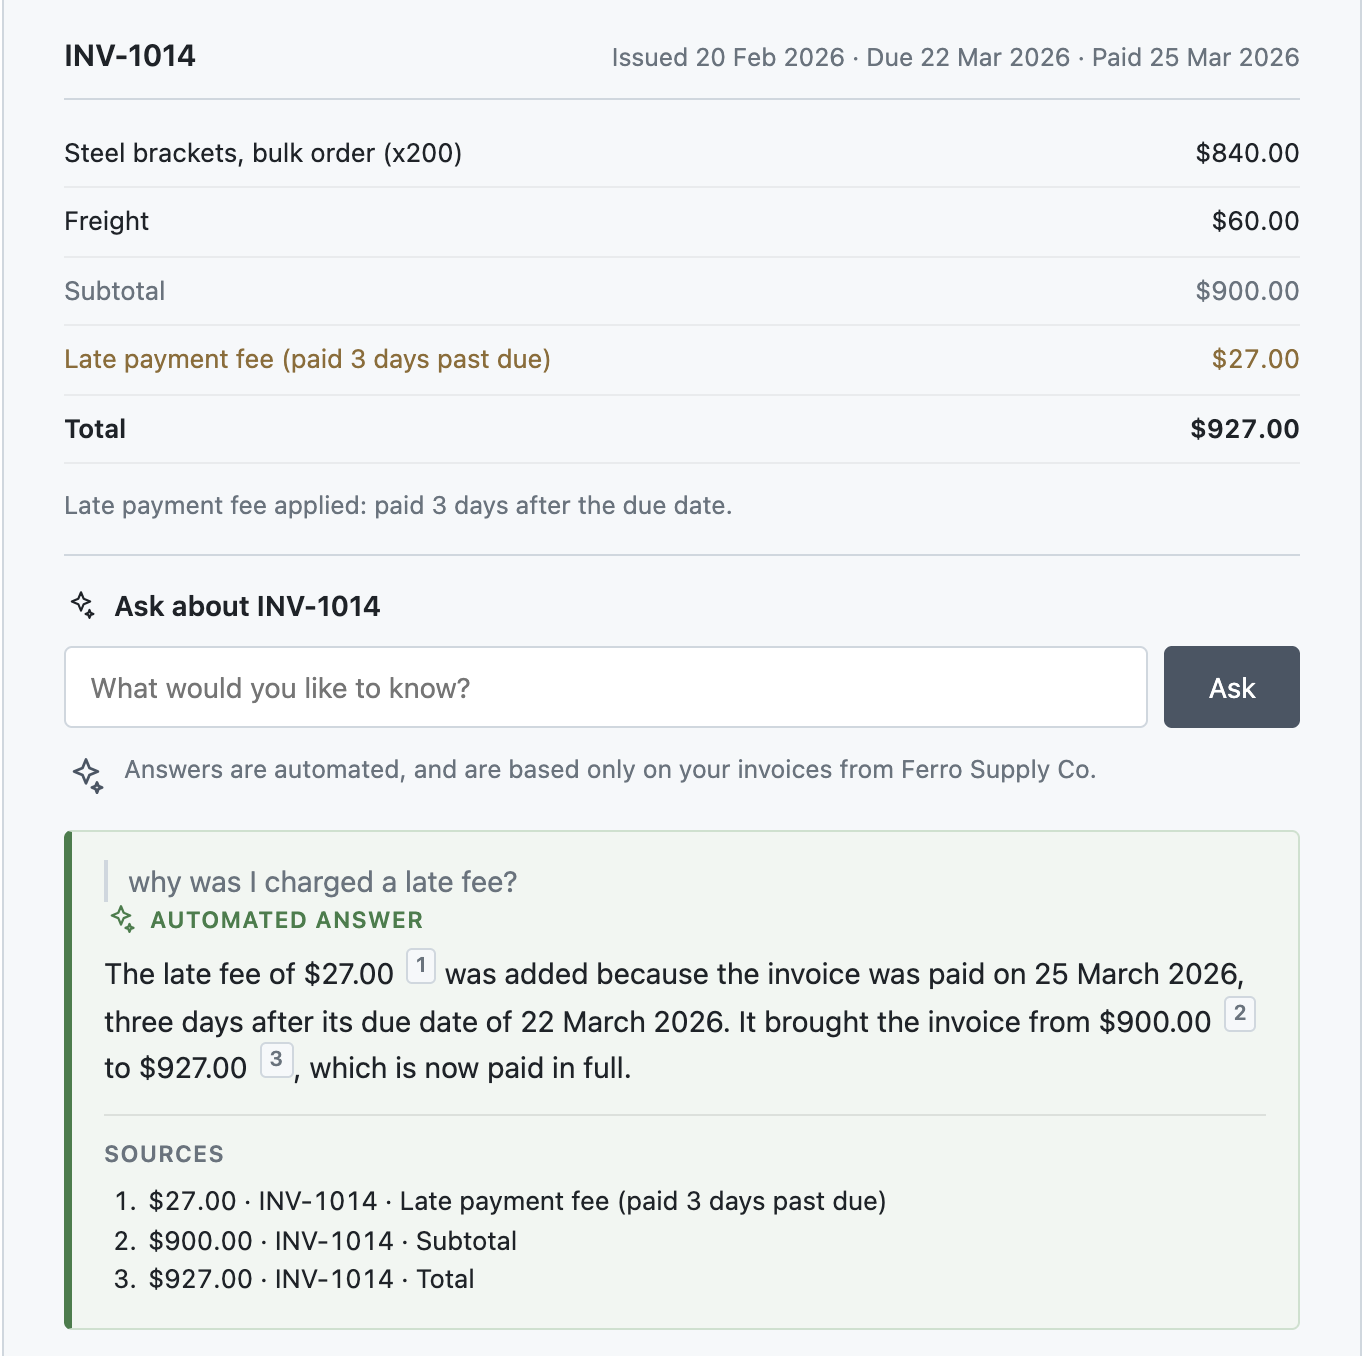
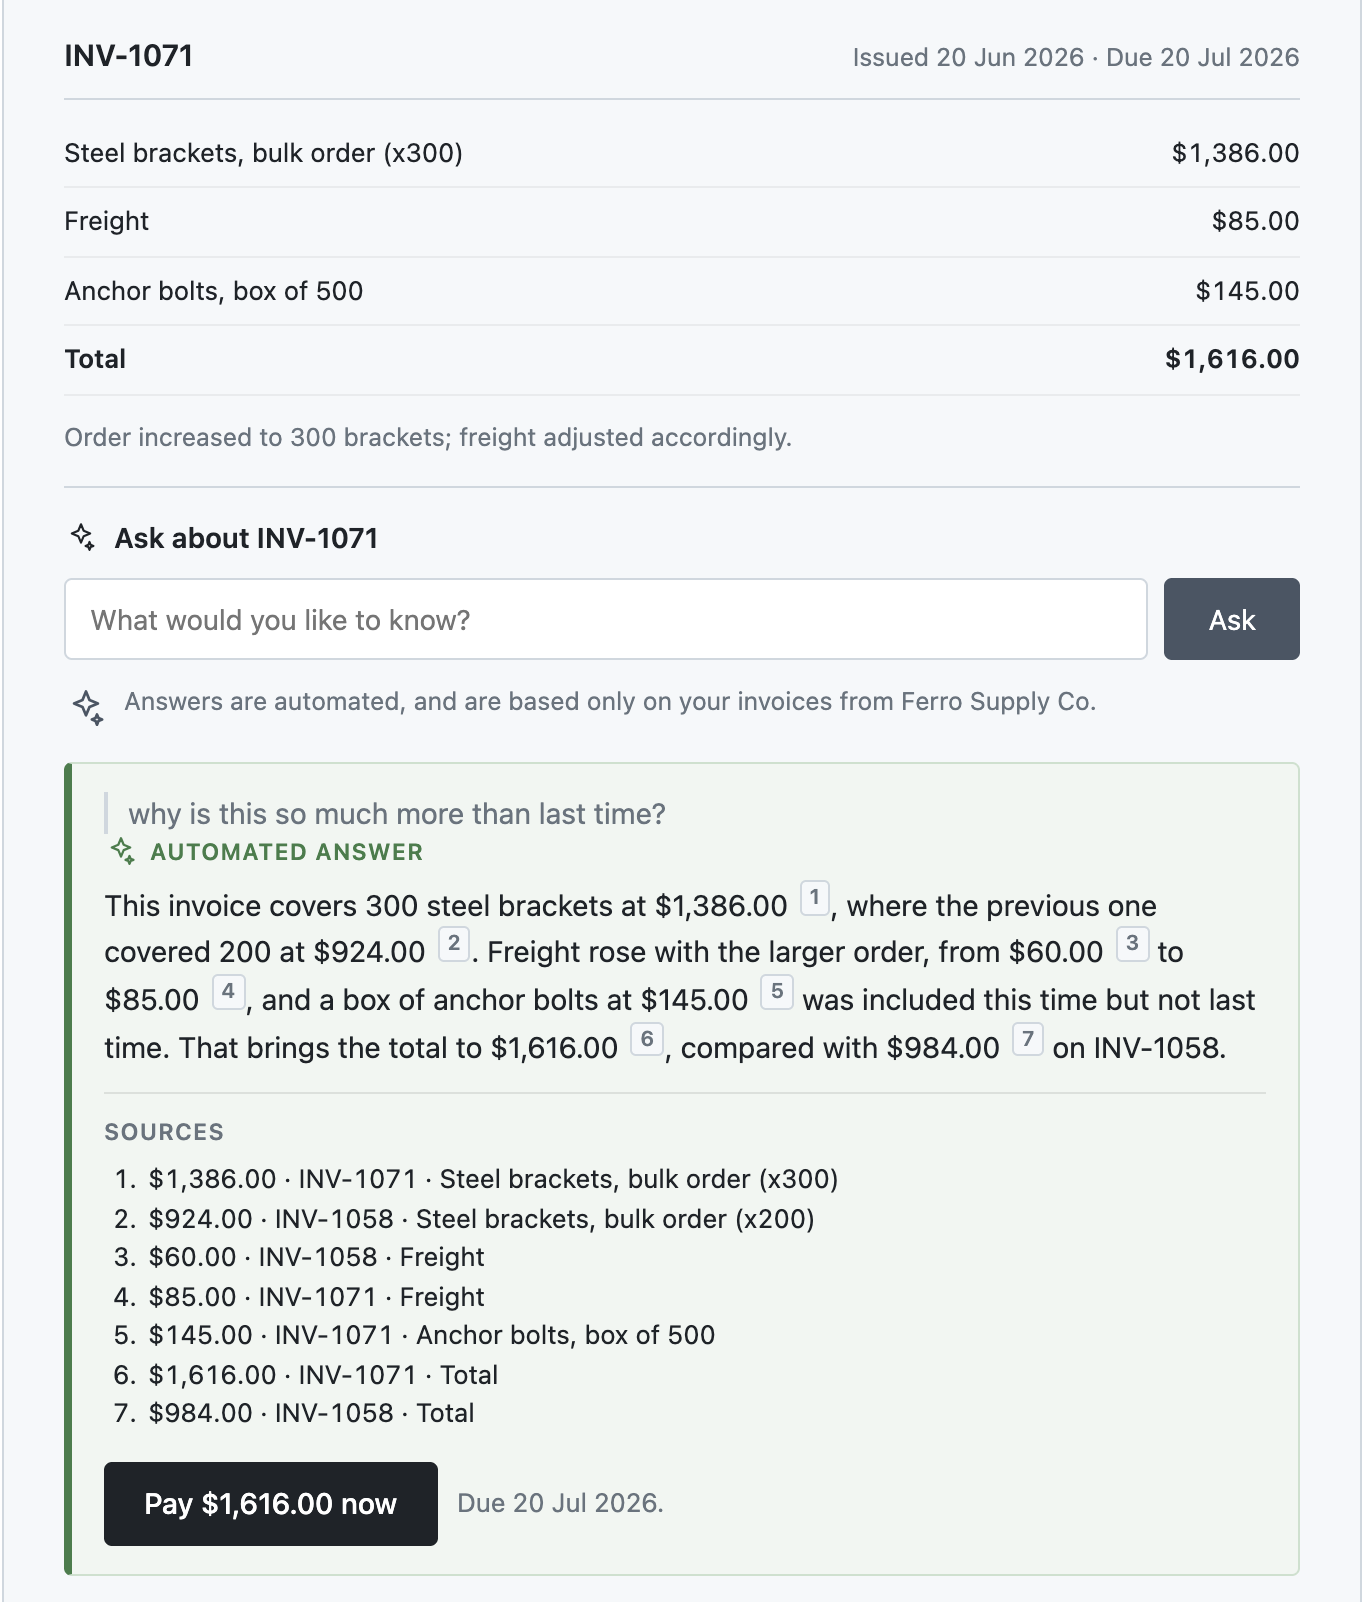
Swap screenshot for better example

diff --git a/README.md b/README.md
@@ -2,7 +2,7 @@
 
 This is a working prototype of a self-service Q&A feature for a customer-facing invoice portal. The end user (a payer) asks a plain-language question about their invoice and gets an answer **grounded in their invoice records**: where the data exists, every fact and figure in the answer is cited back to the specific line item it came from.
 
-<img src="docs/answer-with-citations.png" width="600" alt="The prototype answering why a late fee was charged on invoice INV-1014, with each figure cited to the invoice line it came from">
+<img src="docs/answer-with-citations.png" width="600" alt="The prototype explaining why unpaid invoice INV-1071 costs more than the one before it, citing each figure to its invoice line, with the option to pay underneath">
 
 The point of this feature is to get invoices paid faster. People are slow to pay invoices they don't understand. Some will ask the merchant by email or phone and then wait; others mean to ask and never do, so the invoice sits unpaid and nobody ever hears the question. This answers it while the payer is still looking at the invoice, and offers the two things that move payment forward: pay now, or write to the merchant about whatever understanding the invoice can't settle.
 
